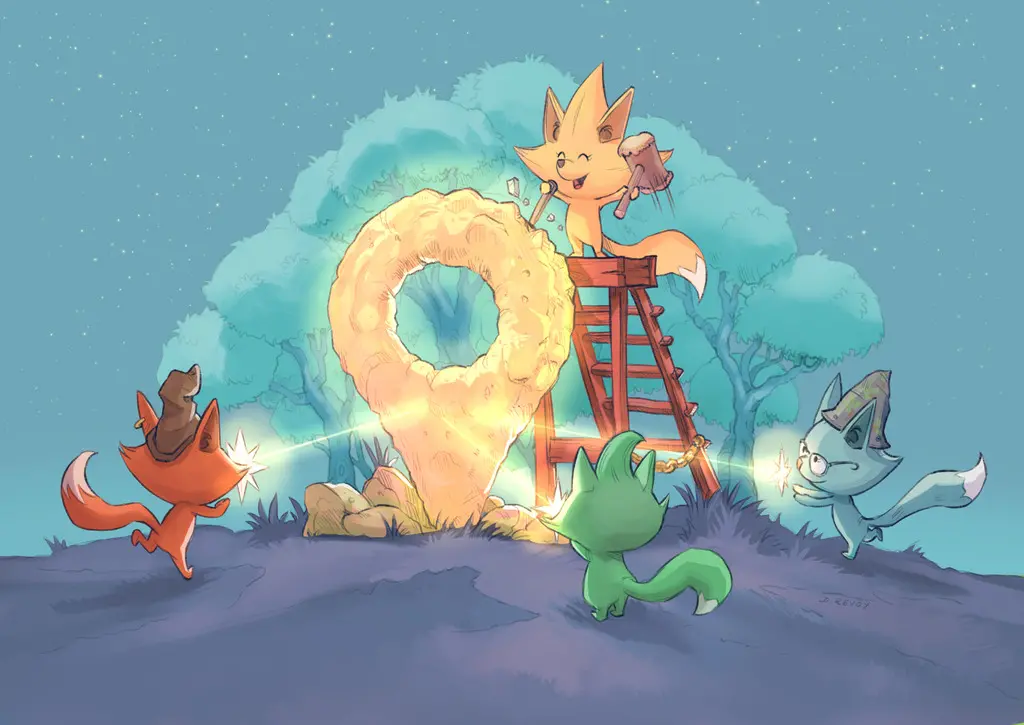
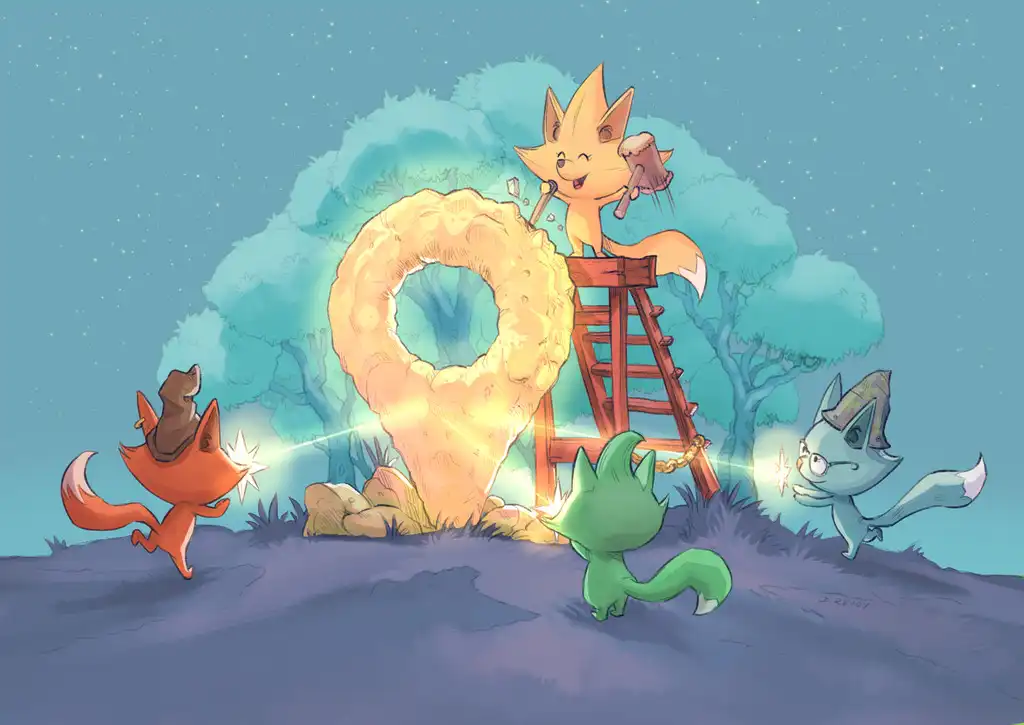
Convert all jpg pictures to webp

diff --git a/js/src/views/CategoriesView.vue b/js/src/views/CategoriesView.vue
@@ -56,17 +56,17 @@
               >
                 <picture class="brightness-50">
                   <source
-                    :srcset="`/img/categories/${key.toLowerCase()}.jpg 2x, /img/categories/${key.toLowerCase()}.jpg`"
+                    :srcset="`/img/categories/${key.toLowerCase()}.webp 2x, /img/categories/${key.toLowerCase()}.webp`"
                     media="(min-width: 1000px)"
                   />
                   <source
-                    :srcset="`/img/categories/${key.toLowerCase()}.jpg 2x, /img/categories/${key.toLowerCase()}-small.jpg`"
+                    :srcset="`/img/categories/${key.toLowerCase()}.webp 2x, /img/categories/${key.toLowerCase()}-small.webp`"
                     media="(min-width: 300px)"
                   />
                   <img
                     class="w-full h-12 w-12 object-cover"
-                    :src="`/img/categories/${key.toLowerCase()}.jpg`"
-                    :srcset="`/img/categories/${key.toLowerCase()}-small.jpg `"
+                    :src="`/img/categories/${key.toLowerCase()}.webp`"
+                    :srcset="`/img/categories/${key.toLowerCase()}-small.webp `"
                     alt=""
                   />
                 </picture>

diff --git a/js/src/components/Categories/CategoryCard.vue b/js/src/components/Categories/CategoryCard.vue
@@ -15,17 +15,17 @@
       class="brightness-50"
     >
       <source
-        :srcset="`/img/categories/${category.key.toLowerCase()}.jpg 2x, /img/categories/${category.key.toLowerCase()}.jpg`"
+        :srcset="`/img/categories/${category.key.toLowerCase()}.webp 2x, /img/categories/${category.key.toLowerCase()}.webp`"
         media="(min-width: 1000px)"
       />
       <source
-        :srcset="`/img/categories/${category.key.toLowerCase()}.jpg 2x, /img/categories/${category.key.toLowerCase()}-small.jpg`"
+        :srcset="`/img/categories/${category.key.toLowerCase()}.webp 2x, /img/categories/${category.key.toLowerCase()}-small.webp`"
         media="(min-width: 300px)"
       />
       <img
         class="w-full h-36 w-36 md:h-52 md:w-52 object-cover"
-        :src="`/img/categories/${category.key.toLowerCase()}.jpg`"
-        :srcset="`/img/categories/${category.key.toLowerCase()}-small.jpg `"
+        :src="`/img/categories/${category.key.toLowerCase()}.webp`"
+        :srcset="`/img/categories/${category.key.toLowerCase()}-small.webp `"
         width="384"
         height="384"
         alt=""

diff --git a/js/src/components/ErrorComponent.vue b/js/src/components/ErrorComponent.vue
@@ -8,13 +8,8 @@
               :srcset="`/img/pics/error-480w.webp  1x, /img/pics/error-1024w.webp 2x`"
               type="image/webp"
             />
-            <source
-              :srcset="`/img/pics/error-480w.jpg 1x, /img/pics/error-1024w.jpg 2x`"
-              type="image/jpeg"
-            />
-
             <img
-              :src="`/img/pics/error-480w.jpg`"
+              :src="`/img/pics/error-480w.webp`"
               alt=""
               width="480"
               height="312"

diff --git a/js/src/components/Footer.vue b/js/src/components/Footer.vue
@@ -8,12 +8,8 @@
         :srcset="`/img/pics/footer_${random}-1024w.webp 1x, /img/pics/footer_${random}-1920w.webp 2x`"
         type="image/webp"
       />
-      <source
-        :srcset="`/img/pics/footer_${random}-1024w.jpg 1x, /img/pics/footer_${random}-1920w.jpg 2x`"
-        type="image/jpeg"
-      />
       <img
-        :src="`/img/pics/footer_${random}-1024w.jpg`"
+        :src="`/img/pics/footer_${random}-1024w.webp`"
         alt=""
         width="1024"
         height="428"

diff --git a/js/src/views/PageNotFound.vue b/js/src/views/PageNotFound.vue
@@ -7,13 +7,9 @@
             :srcset="`/img/pics/error-480w.webp 1x, /img/pics/error-1024w.webp 2x`"
             type="image/webp"
           />
-          <source
-            :srcset="`/img/pics/error-480w.jpg 1x, /img/pics/error-1024w.jpg 2x`"
-            type="image/jpeg"
-          />
 
           <img
-            :src="`/img/pics/error-480w.jpg`"
+            :src="`/img/pics/error-480w.webp`"
             alt=""
             width="2616"
             height="1698"

diff --git a/js/src/views/Group/MyGroups.vue b/js/src/views/Group/MyGroups.vue
@@ -205,11 +205,11 @@ section {
 
 .not-found {
   .img-container {
-    background-image: url("../../../public/img/pics/group-480w.jpg");
+    background-image: url("../../../public/img/pics/group-480w.webp");
 
     @media (min-resolution: 2dppx) {
       & {
-        background-image: url("../../../public/img/pics/group-1024w.jpg");
+        background-image: url("../../../public/img/pics/group-1024w.webp");
       }
     }
     &.webp {

diff --git a/js/src/components/Local/OnlineEvents.vue b/js/src/components/Local/OnlineEvents.vue
@@ -31,7 +31,7 @@
           },
         }"
         :picture="{
-          url: '/img/online-event.jpg',
+          url: '/img/online-event.webp',
           author: {
             name: 'Chris Montgomery',
             url: 'https://unsplash.com/@cwmonty',

diff --git a/js/src/views/HomeView.vue b/js/src/views/HomeView.vue
@@ -102,7 +102,7 @@
           />
 
           <img
-            :src="`/img/pics/homepage-1024w.jpg`"
+            :src="`/img/pics/homepage-1024w.webp`"
             width="3840"
             height="2719"
             alt=""
